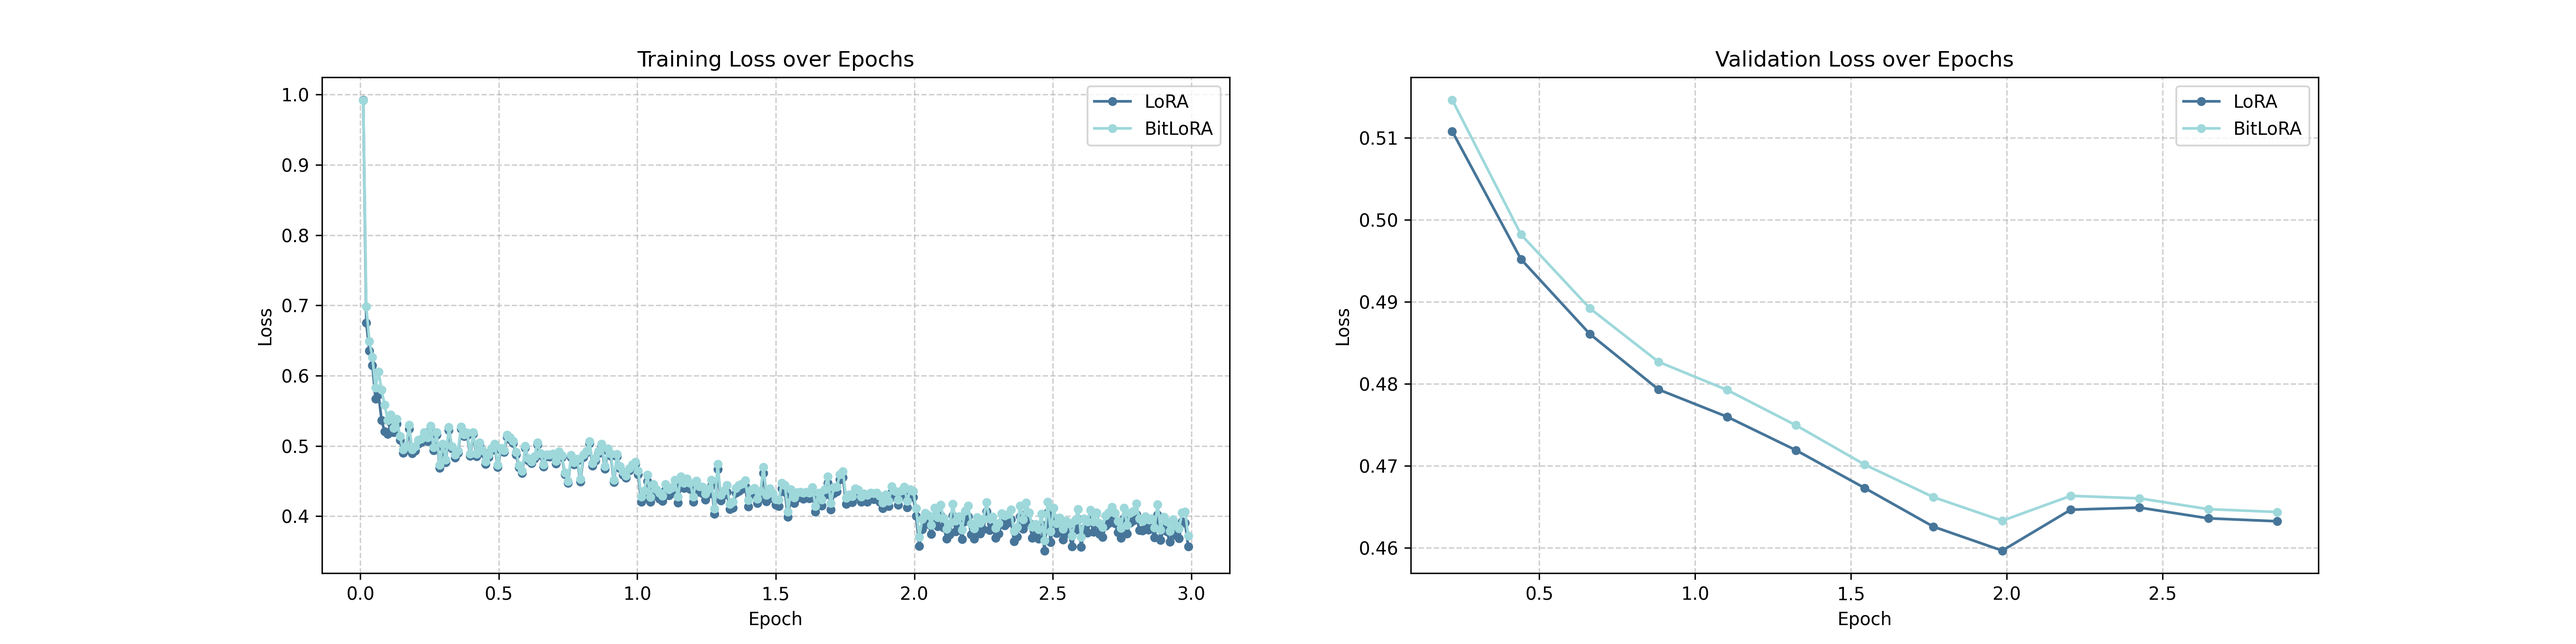
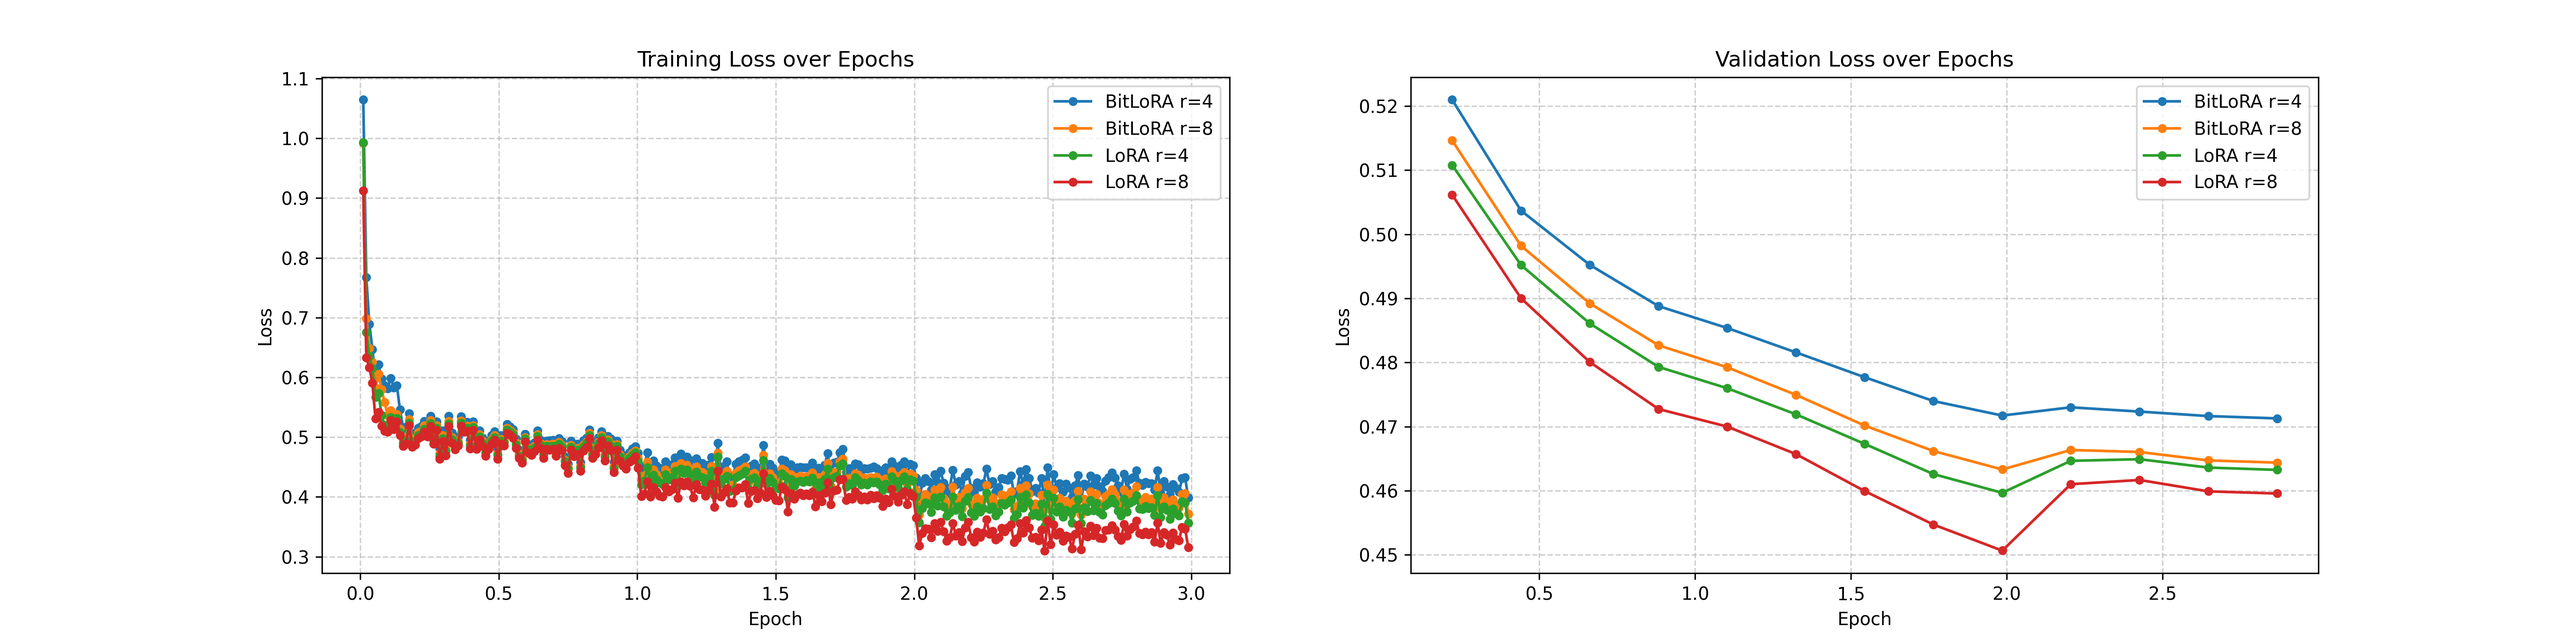
modify save dir name

diff --git a/loss.py b/loss.py
@@ -1,64 +1,75 @@
 import json
 import matplotlib.pyplot as plt
 
-file_path = "llama-3b-fp16_lora-r4/checkpoint-2718/trainer_state.json" 
-file_path2 = "llama-3b-bit_lora-r8/checkpoint-2718/trainer_state.json" 
+bit_paths = [
+    "experiments/llama-3b-bit_lora-r4/checkpoint-2718/trainer_state.json",
+    "experiments/llama-3b-bit_lora-r8/checkpoint-2718/trainer_state.json",
+]
+
+fp16_paths = [
+    "experiments/llama-3b-fp16_lora-r4/checkpoint-2718/trainer_state.json",
+    "experiments/llama-3b-fp16_lora-r8/checkpoint-2718/trainer_state.json",
+]
+
 try:
-    with open(file_path, "r", encoding="utf-8") as f:
-        state = json.load(f)
-        
-    log_history = state.get("log_history", [])
-
-    epochs = []
-    losses = []
-    eval_epochs = []
-    eval_losses = []
-    learning_rates = []
-
-    for log in log_history:
-        if "loss" in log and "epoch" in log:
-            epochs.append(log["epoch"])
-            losses.append(log["loss"])
-            learning_rates.append(log["learning_rate"])
-        if "eval_loss" in log:
-            eval_epochs.append(log["epoch"])
-            eval_losses.append(log["eval_loss"])
-
     plt.figure(figsize=(20, 5))
+    for i, file_path in enumerate(bit_paths):
+        with open(file_path, "r", encoding="utf-8") as f:
+            state = json.load(f)
+        log_history = state.get("log_history", [])
+
+        epochs = []
+        losses = []
+        eval_epochs = []
+        eval_losses = []
+        learning_rates = []
+
+        for log in log_history:
+            if "loss" in log and "epoch" in log:
+                epochs.append(log["epoch"])
+                losses.append(log["loss"])
+                learning_rates.append(log["learning_rate"])
+            if "eval_loss" in log:
+                eval_epochs.append(log["epoch"])
+                eval_losses.append(log["eval_loss"])
+
+        plt.subplot(1, 2, 1)
+        plt.plot(epochs, losses, marker='o', markersize=4, linestyle='-', label=f'BitLoRA r={2**(i+2)}')
+        plt.subplot(1, 2, 2)
+        plt.plot(eval_epochs, eval_losses, marker='o', markersize=4, linestyle='-', label=f'BitLoRA r={2**(i+2)}')
+
+    for i, file_path in enumerate(fp16_paths):
+        with open(file_path, "r", encoding="utf-8") as f:
+            state = json.load(f)
+        log_history = state.get("log_history", [])
+
+        epochs = []
+        losses = []
+        eval_epochs = []
+        eval_losses = []
+        learning_rates = []
+
+        for log in log_history:
+            if "loss" in log and "epoch" in log:
+                epochs.append(log["epoch"])
+                losses.append(log["loss"])
+                learning_rates.append(log["learning_rate"])
+            if "eval_loss" in log:
+                eval_epochs.append(log["epoch"])
+                eval_losses.append(log["eval_loss"])
+
+        plt.subplot(1, 2, 1)
+        plt.plot(epochs, losses, marker='o', markersize=4, linestyle='-', label=f'LoRA r={2**(i+2)}')
+        plt.subplot(1, 2, 2)
+        plt.plot(eval_epochs, eval_losses, marker='o', markersize=4, linestyle='-', label=f'LoRA r={2**(i+2)}')
+
     plt.subplot(1, 2, 1)
-    plt.plot(epochs, losses, marker='o', markersize=4, linestyle='-', color='#467599', label='LoRA')
-    plt.subplot(1, 2, 2)
-    plt.plot(eval_epochs, eval_losses, marker='o', markersize=4, linestyle='-', color='#467599', label='LoRA')
-
-    with open(file_path2, "r", encoding="utf-8") as f:
-        state = json.load(f)
-        
-    log_history = state.get("log_history", [])
-
-    epochs = []
-    losses = []
-    eval_epochs = []
-    eval_losses = []
-    learning_rates = []
-
-    for log in log_history:
-        if "loss" in log and "epoch" in log:
-            epochs.append(log["epoch"])
-            losses.append(log["loss"])
-            learning_rates.append(log["learning_rate"])
-        if "eval_loss" in log:
-            eval_epochs.append(log["epoch"])
-            eval_losses.append(log["eval_loss"])
-    plt.subplot(1, 2, 1)
-    plt.plot(epochs, losses, marker='o', markersize=4, linestyle='-', color='#9ed8db', label='BitLoRA')
-
     plt.title('Training Loss over Epochs')
     plt.xlabel('Epoch')
     plt.ylabel('Loss')
     plt.grid(True, linestyle='--', alpha=0.6)
     plt.legend()
     plt.subplot(1, 2, 2)
-    plt.plot(eval_epochs, eval_losses, marker='o', markersize=4, linestyle='-', color='#9ed8db', label='BitLoRA')
     plt.title('Validation Loss over Epochs')
     plt.xlabel('Epoch')
     plt.ylabel('Loss')

diff --git a/src/utils.py b/src/utils.py
@@ -6,10 +6,6 @@ def weight_quant(weight, num_bits=1):
     dtype = weight.dtype
     weight = weight.float()
     s = 1 / weight.abs().mean().clamp(min=1e-5) ## clamp -> 최소값 보장
-    '''
-    결과적으로 quant_weight는 -2.xx, 0, 2.xx 와 같이 소수 형태로 저장되지만 
-    실제 추론 과정에서는 -1, 0, 1과 최종 scaling_factor 형태로 연산됨 -> 훨씬 빠름
-    '''
     result = (weight * s).round().clamp(-1, 1) / s 
     return result.type(dtype)
 
@@ -29,11 +25,8 @@ class BitLinear(nn.Linear):
         self.weight_bits = weight_bits
         self.input_bits = input_bits
         nn.init.kaiming_uniform_(self.weight, a=math.sqrt(5))
+    
     def forward(self, input):
-        '''
-        detach(): 역전파시 미분 무시 
-        따라서 학습 과정에서는 고정밀도를 유지하는 self.weight만 미분에 사용됨
-        '''
         quant_input = input + (activation_quant(input, self.input_bits) - input).detach()
         quant_weight = self.weight + (weight_quant(self.weight, self.weight_bits) - self.weight).detach()
         out = nn.functional.linear(quant_input, quant_weight)

diff --git a/src/train.py b/src/train.py
@@ -110,10 +110,9 @@ def main():
 
     data_collator = DataCollatorForLanguageModeling(tokenizer=tokenizer, mlm=False)
 
-    save_path = f"./llama-3b-{args.adaptor_type}_lora-r{args.r}"
+    save_path = f"./experiments/llama-3b-{args.adaptor_type}_lora-r{args.r}"
 
     training_args = TrainingArguments(
-        max_steps=2,
         output_dir=save_path,
         num_train_epochs=args.epochs,
         per_device_train_batch_size=1,

diff --git a/README.md b/README.md
@@ -1,5 +1,5 @@
 # python-BitLoRA-research
-본 저장소는 BitNet b1.58의 BitLinear 모듈을 **LoRA**에 접목하여, 파인튜닝 시 어댑터 A와 B를 ternary로 양자화했을 때의 성능을 구체화
+본 저장소는 BitNet b1.58의 **BitLinear** 모듈을 **LoRA**에 접목하여, 파인튜닝 시 어댑터 A와 B를 ternary로 양자화했을 때의 성능을 구체화
 
 ## 연구 배경 및 목적
 - LoRA의 Adapter A와 B를 1.58-bit로 양자화한 BitLoRA와 기존 FP16 LoRA의 성능 비교
@@ -38,10 +38,11 @@ python ./src/train.py --adaptor_type fp16 --r 8 --epochs 3
 
 ![Training Loss Comparison](loss_graph.png)
 
-| Method | Trainable Params (%) | VRAM Usage (GB) | Run Time | Relative Performance | Remarks |
-| :--- | :---: | :---: | :---: | :---: | :---: |
-| **FP16 Adaptor (r=4)** | 0.188 | 11.4 | -- | -- | -- |
-| **FP16 Adaptor (r=8)** | 0.377 | 11.4 | -- | -- | -- |
-| **Bit Adaptor (r=4)** | 0.188 | 11.4 | -- | -- | -- |
-| **Bit Adaptor (r=8)** | 0.377 | -- | -- | -- | -- |
-| **Bit Adaptor (r=16)** | 0.7511 | -- | -- | -- | -- |
+| Method | Trainable Params (%) | GSM8K (CoT) | inference time (Adaptor only) | inference cost (Adaptor only)
+| :--- | :---: | :---: | :---: |
+| **BASE MODEL** | -- | 77.7 | -- |
+| **FP16 Adaptor (r=4)** | 0.188 | -- | -- |
+| **FP16 Adaptor (r=8)** | 0.377 | -- | -- |
+| **Bit Adaptor (r=4)** | 0.188 | -- | -- |
+| **Bit Adaptor (r=8)** | 0.377 | -- | -- |
+| **Bit Adaptor (r=16)** | 0.7511 | -- | -- |
